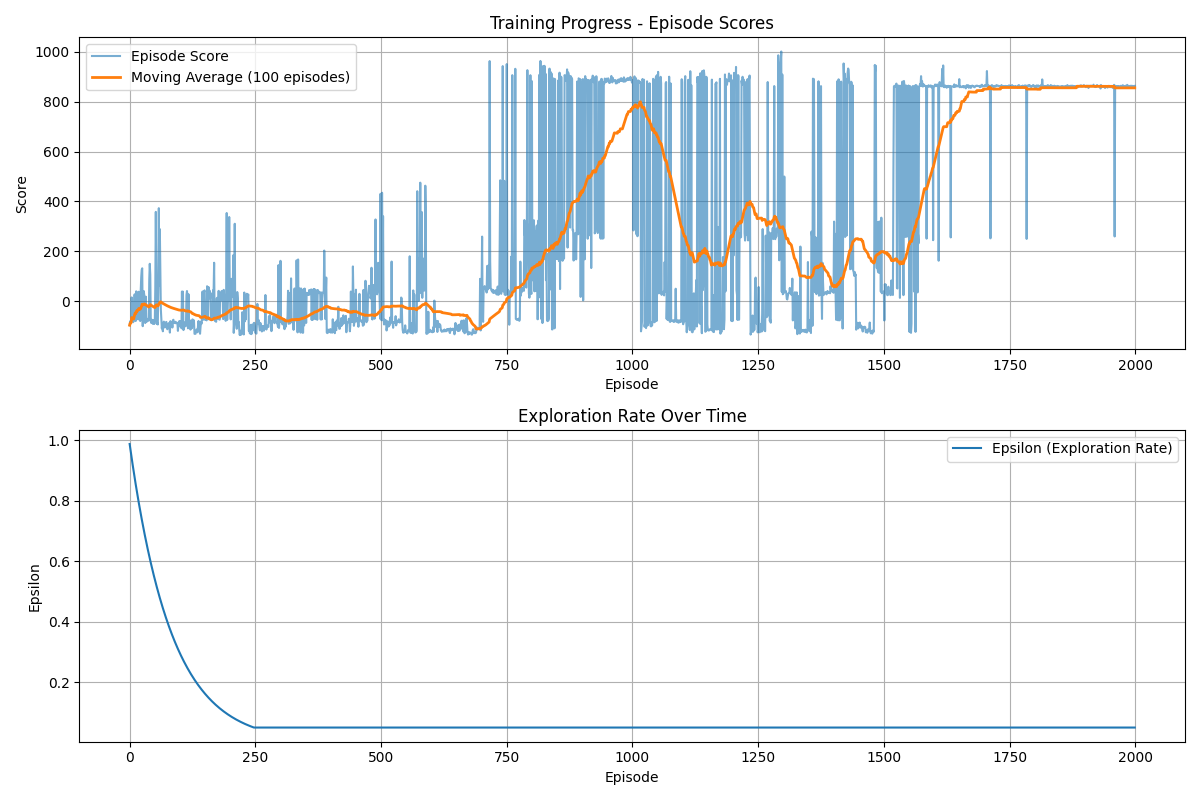
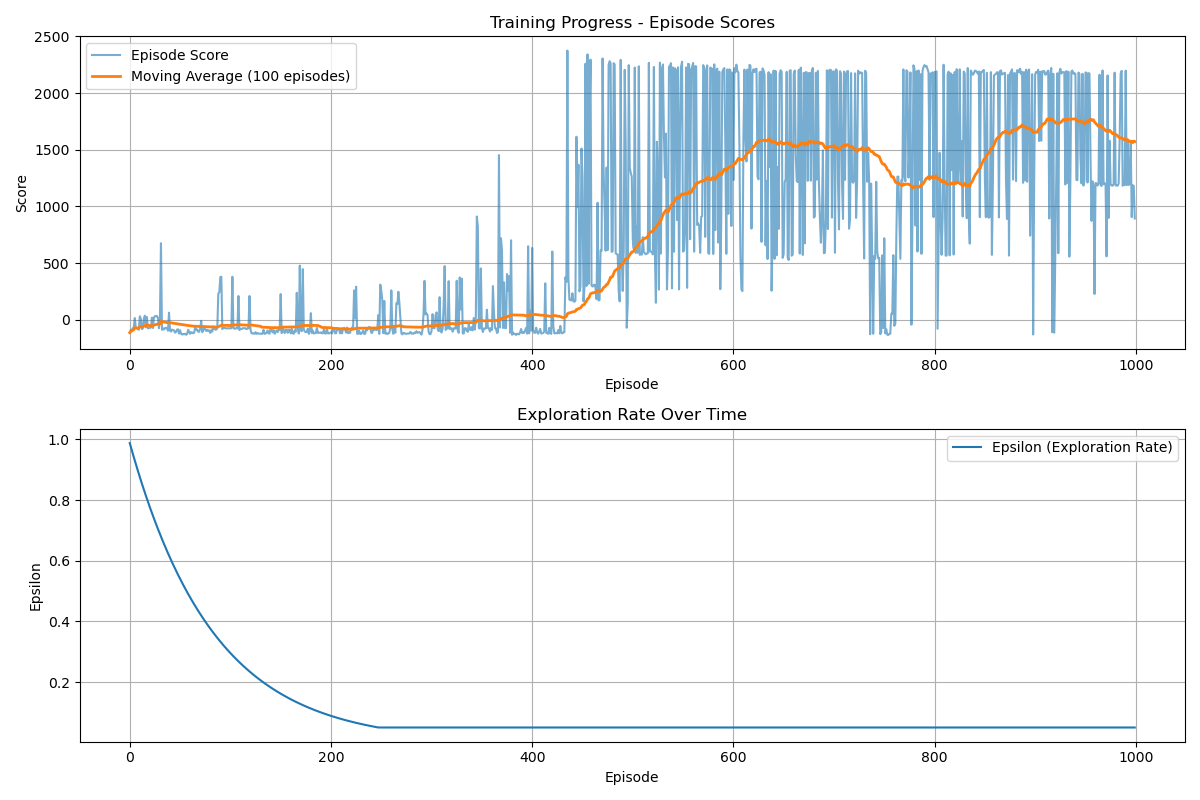
multiple rounds

diff --git a/gym_crossroad_env.py b/gym_crossroad_env.py
@@ -16,11 +16,12 @@ class CrossroadGymEnv(gym.Env):
     """
     metadata = {"render_modes": ["human"], "render_fps": 60}
 
-    def __init__(self, gui=False, max_steps=None, reward_shaping=True):
+    def __init__(self, gui=False, max_steps=None, reward_shaping=True, target_rounds=1):
         super().__init__()
         self.gui = gui
         self._max_steps = max_steps or RL_CONFIG.get('max_episode_steps', 2000)
         self.reward_shaping = reward_shaping
+        self.target_rounds = target_rounds
         
         self._p_connection_mode = p.GUI if gui else p.DIRECT
         self.navigation_mode = PEDESTRIAN_CONFIG.get('navigation_mode', 'roundabout')
@@ -52,6 +53,7 @@ class CrossroadGymEnv(gym.Env):
         self.current_waypoint_index = 0
         self.waypoints_reached = 0
         self.total_waypoints_reached = 0
+        self.rounds_completed = 0
         
         # Progress tracking
         self.last_progress_distance = None
@@ -65,7 +67,9 @@ class CrossroadGymEnv(gym.Env):
             'total_reward': 0,
             'waypoints_reached': 0,
             'full_loops_completed': 0,
-            'sequential_completions': 0
+            'sequential_completions': 0,
+            'target_rounds': self.target_rounds,
+            'rounds_completed': 0
         }
 
     def _init_pybullet(self):
@@ -100,10 +104,11 @@ class CrossroadGymEnv(gym.Env):
             self._configure_navigation_plan()
         self.current_waypoint_index = 0
         self.waypoints_reached = 0
+        self.rounds_completed = 0
         if self.waypoints:
             self.current_target_pos = self.waypoints[0]
         else:
-            self.current_target_pos = self.start_pos
+            self.current_target_pos = PEDESTRIAN_CONFIG.get('start_position', [-2.5, 3.5, 0.6])
         self.last_progress_distance = math.hypot(
             self.start_pos[0] - self.current_target_pos[0],
             self.start_pos[1] - self.current_target_pos[1]
@@ -261,12 +266,40 @@ class CrossroadGymEnv(gym.Env):
             self.current_waypoint_index += 1
             self.waypoints_reached += 1
 
-            # If all waypoints completed → SUCCESS
+            # If all waypoints completed → Check if more rounds needed
             if self.current_waypoint_index >= len(self.waypoints):
-                reward += 400  # Large bonus for completing full circuit (was 500)
-                info["success"] = True
-                info["waypoints_completed"] = len(self.waypoints)  # Ensure correct count
-                done = True
+                self.rounds_completed += 1
+                self.episode_stats['rounds_completed'] = self.rounds_completed
+                
+                # Calculate total waypoints completed across all rounds
+                total_waypoints_completed = self.rounds_completed * len(self.waypoints)
+                
+                # Check if target rounds completed
+                if self.rounds_completed >= self.target_rounds:
+                    reward += 400  # Large bonus for completing all target rounds
+                    info["success"] = True
+                    info["waypoints_completed"] = total_waypoints_completed
+                    info["rounds_completed"] = self.rounds_completed
+                    info["target_rounds_reached"] = True
+                    print(f"🎉 Agent completed {self.rounds_completed}/{self.target_rounds} rounds successfully!")
+                    done = True
+                else:
+                    # More rounds needed - reset waypoints but continue episode
+                    reward += 200  # Moderate bonus for completing one round
+                    info["round_completed"] = self.rounds_completed
+                    info["waypoints_completed"] = total_waypoints_completed
+                    info["rounds_completed"] = self.rounds_completed
+                    print(f"🔄 Round {self.rounds_completed} completed! Starting round {self.rounds_completed + 1}/{self.target_rounds}")
+                    
+                    # Reset waypoint tracking for next round
+                    self.current_waypoint_index = 0
+                    self.current_target_pos = self.waypoints[0]
+                    
+                    # Reset progress measurement for new round
+                    self.last_distance_to_target = math.hypot(
+                        agent_x - self.current_target_pos[0],
+                        agent_y - self.current_target_pos[1]
+                    )
             else:
                 # Move to next waypoint
                 self.current_target_pos = self.waypoints[self.current_waypoint_index]
@@ -390,9 +423,11 @@ class CrossroadGymEnv(gym.Env):
 
         # Calculate reward and check termination
         info = {
-            'waypoints_completed': self.waypoints_reached,
+            'waypoints_completed': self.rounds_completed * len(self.waypoints) + self.current_waypoint_index,
             'current_waypoint': self.current_waypoint_index,
-            'total_waypoints': len(self.waypoints)
+            'total_waypoints': len(self.waypoints),
+            'rounds_completed': self.rounds_completed,
+            'target_rounds': self.target_rounds
         }
         
         reward, done, info = self._calculate_reward(action, info)
@@ -451,7 +486,9 @@ class CrossroadGymEnv(gym.Env):
         info = {
             'current_waypoint': self.current_waypoint_index, 
             'waypoints_reached': self.waypoints_reached,
-            'target_position': self.current_target_pos
+            'target_position': self.current_target_pos,
+            'rounds_completed': self.rounds_completed,
+            'target_rounds': self.target_rounds
         }
         
         return obs, info
@@ -474,7 +511,10 @@ class CrossroadGymEnv(gym.Env):
         stats.update({
             'current_waypoint': self.current_waypoint_index,
             'waypoints_reached_current_episode': self.waypoints_reached,
-            'completion_percentage': (self.waypoints_reached / len(self.waypoints)) * 100
+            'completion_percentage': (self.waypoints_reached / len(self.waypoints)) * 100,
+            'rounds_completed': self.rounds_completed,
+            'target_rounds': self.target_rounds,
+            'rounds_completion_percentage': (self.rounds_completed / self.target_rounds) * 100
         })
         return stats
 

diff --git a/evaluate_agent.py b/evaluate_agent.py
@@ -10,7 +10,7 @@ from dqn_agent import DQNAgent
 from config import RL_CONFIG
 
 
-def evaluate_agent(model_path, num_episodes=10, gui=True, max_steps=400):
+def evaluate_agent(model_path, num_episodes=10, gui=True, max_steps=400, target_rounds=1):
     """
     Evaluate a trained DQN agent.
     
@@ -19,15 +19,17 @@ def evaluate_agent(model_path, num_episodes=10, gui=True, max_steps=400):
         num_episodes: Number of episodes to evaluate
         gui: Whether to show GUI
         max_steps: Maximum steps per episode
+        target_rounds: Number of complete rounds the agent should do per episode
     """
     # Initialize environment
     print("Initializing environment...")
     if gui:
         print("  GUI mode enabled - PyBullet window should open...")
-    env = CrossroadGymEnv(gui=gui, max_steps=max_steps)
+    env = CrossroadGymEnv(gui=gui, max_steps=max_steps, target_rounds=target_rounds)
     state_size = env.observation_space.shape[0]
     action_size = env.action_space.n
     print(f"  Environment initialized: State size={state_size}, Action size={action_size}")
+    print(f"  Target rounds per episode: {target_rounds}")
     
     # Initialize agent and load model
     print(f"Loading model from {model_path}...")
@@ -54,6 +56,8 @@ def evaluate_agent(model_path, num_episodes=10, gui=True, max_steps=400):
         
         print(f"\nEpisode {episode}/{num_episodes}")
         waypoints_logged = set()  # Track which waypoints we've logged
+        rounds_logged = set()     # Track which rounds we've logged
+        total_waypoints = len(env.waypoints) * target_rounds
         
         while not done and steps < max_steps:
             # Select action (no exploration)
@@ -74,35 +78,48 @@ def evaluate_agent(model_path, num_episodes=10, gui=True, max_steps=400):
             
             # Check for waypoint completion and log it
             waypoints = info.get('waypoints_completed', 0)
-            if waypoints not in waypoints_logged and waypoints > 0:
-                waypoints_logged.add(waypoints)
-                print(f"  ✓ Reached waypoint {waypoints}/4 at step {steps}")
+            rounds_completed = info.get('rounds_completed', 0)
+            current_waypoint = info.get('current_waypoint', 0)
+            
+            # Log round completions
+            if rounds_completed not in rounds_logged and rounds_completed > 0:
+                rounds_logged.add(rounds_completed)
+                print(f"  🔄 Completed round {rounds_completed}/{target_rounds} at step {steps}")
+            
+            # Log waypoint progress - use unique waypoint identifier
+            waypoint_key = f"r{rounds_completed}w{current_waypoint}"
+            if current_waypoint > 0 and waypoint_key not in waypoints_logged:
+                waypoints_logged.add(waypoint_key)
+                round_num = rounds_completed + 1
+                print(f"  ✓ Round {round_num}: Reached waypoint {current_waypoint}/{len(env.waypoints)} at step {steps}")
             
             # Check for success or collision
             if info.get('success', False):
                 successes += 1
-                waypoints = info.get('waypoints_completed', 0)
-                print(f"  🎉 SUCCESS! Completed all 4 waypoints in {steps} steps")
+                print(f"  🎉 SUCCESS! Completed all {target_rounds} rounds ({waypoints} waypoints) in {steps} steps")
             elif info.get('collision', False):
                 collisions += 1
-                waypoints = info.get('waypoints_completed', 0)
+                rounds_completed = info.get('rounds_completed', 0)
                 print(f"  ✗ Collision at step {steps}")
-                print(f"    Final waypoints reached: {waypoints}/4")
+                print(f"    Progress: {rounds_completed}/{target_rounds} rounds completed")
             elif done and steps >= max_steps:
-                waypoints = info.get('waypoints_completed', 0)
+                rounds_completed = info.get('rounds_completed', 0)
                 print(f"  ⏱ Timeout after {steps} steps")
-                print(f"    Final waypoints reached: {waypoints}/4")
+                print(f"    Progress: {rounds_completed}/{target_rounds} rounds completed")
             
             # Print current waypoint target every 100 steps
             if steps % 100 == 0 or done:
                 if 'current_waypoint' in info:
                     wp_idx = info['current_waypoint']
+                    rounds_completed = info.get('rounds_completed', 0)
+                    current_round = rounds_completed + 1
                     waypoint_names = ['North→East (1)', 'East→South (2)', 'South→West (3)', 'West→North (4)']
                     if wp_idx < len(waypoint_names):
                         target_name = waypoint_names[wp_idx]
                     else:
                         target_name = f"Waypoint {wp_idx+1}"
-                    print(f"    Step {steps}: Target={target_name}, Completed={waypoints}/4")
+                    total_completed_waypoints = info.get('waypoints_completed', 0)
+                    print(f"    Step {steps}: Round {current_round}/{target_rounds}, Target={target_name}, Total waypoints completed={total_completed_waypoints}/{total_waypoints}")
         
         episode_scores.append(score)
         episode_steps.append(steps)
@@ -143,6 +160,7 @@ def main():
     parser.add_argument('--episodes', type=int, default=10, help='Number of evaluation episodes')
     parser.add_argument('--no-gui', action='store_true', help='Disable GUI (faster evaluation)')
     parser.add_argument('--max-steps', type=int, default=1000, help='Maximum steps per episode')
+    parser.add_argument('--target-rounds', type=int, default=1, help='Number of complete rounds per episode')
     
     args = parser.parse_args()
     
@@ -150,7 +168,8 @@ def main():
         model_path=args.model,
         num_episodes=args.episodes,
         gui=not args.no_gui,
-        max_steps=args.max_steps
+        max_steps=args.max_steps,
+        target_rounds=args.target_rounds
     )
 
 

diff --git a/test_multiple_rounds.py b/test_multiple_rounds.py
@@ -1,0 +1,67 @@
+#!/usr/bin/env python3
+"""
+Test script to verify the multiple rounds functionality
+"""
+import sys
+import os
+import time
+
+# Add current directory to path
+sys.path.append(os.path.dirname(os.path.abspath(__file__)))
+
+from gym_crossroad_env import CrossroadGymEnv
+import numpy as np
+
+def test_multiple_rounds():
+    """Test the environment with multiple rounds"""
+    print("Testing Multiple Rounds Functionality")
+    print("=" * 50)
+    
+    # Test different round configurations
+    test_configs = [
+        {"target_rounds": 1, "description": "Single Round (Original)"},
+        {"target_rounds": 2, "description": "Two Rounds"},
+        {"target_rounds": 3, "description": "Three Rounds"},
+    ]
+    
+    for config in test_configs:
+        target_rounds = config["target_rounds"]
+        description = config["description"]
+        
+        print(f"\n--- Testing: {description} ---")
+        
+        # Create environment with no GUI for faster testing
+        env = CrossroadGymEnv(gui=False, max_steps=1000, target_rounds=target_rounds)
+        
+        print(f"Environment created with target_rounds={target_rounds}")
+        print(f"Waypoints: {len(env.waypoints)}")
+        print(f"Total target waypoints: {len(env.waypoints) * target_rounds}")
+        
+        # Test reset
+        obs, info = env.reset()
+        print(f"Reset info: rounds_completed={info.get('rounds_completed', 0)}, target_rounds={info.get('target_rounds', 0)}")
+        
+        # Simulate some steps (just random actions for testing)
+        for step in range(10):
+            action = np.random.randint(0, 5)  # Random action
+            obs, reward, done, truncated, info = env.step(action)
+            
+            if done:
+                success = info.get('success', False)
+                rounds_completed = info.get('rounds_completed', 0)
+                waypoints_completed = info.get('waypoints_completed', 0)
+                
+                print(f"Episode ended at step {step + 1}")
+                print(f"  Success: {success}")
+                print(f"  Rounds completed: {rounds_completed}/{target_rounds}")
+                print(f"  Waypoints completed: {waypoints_completed}")
+                break
+        
+        env.close()
+        print(f"Test completed for {description}")
+    
+    print("\n" + "=" * 50)
+    print("All tests completed!")
+
+if __name__ == "__main__":
+    test_multiple_rounds()

diff --git a/launcher.py b/launcher.py
@@ -45,17 +45,24 @@ def train_model():
         except ValueError:
             episodes = 500
             
+        try:
+            rounds = int(input("Enter number of rounds per episode for training (default 1): ") or "1")
+        except ValueError:
+            rounds = 1
+            
         use_gui = input("Show GUI during training? (y/N): ").lower().startswith('y')
         
         print(f"\nStarting training for {episodes} episodes...")
         print(f"GUI: {'Enabled' if use_gui else 'Disabled (faster)'}")
+        print(f"Target rounds per episode: {rounds}")
         
         train_agent(
             num_episodes=episodes,
             max_steps=2000,
             gui=use_gui,
             save_dir='models',
-            save_frequency=50
+            save_frequency=100,
+            target_rounds=rounds
         )
         
         print("Training completed! Model saved in ./models/")
@@ -90,12 +97,17 @@ def run_trained_model():
         from evaluate_agent import evaluate_agent
         
         episodes = int(input("Enter number of episodes to run (default 5): ") or "5")
+        rounds = int(input("Enter number of rounds per episode (default 1): ") or "1")
+        
+        if rounds > 1:
+            print(f"\nAgent will complete {rounds} full rounds of the roundabout per episode!")
         
         results = evaluate_agent(
             model_path=model_path,
             num_episodes=episodes,
             gui=True,
-            max_steps=2000
+            max_steps=2000,
+            target_rounds=rounds
         )
         
         print("\nEvaluation completed!")

diff --git a/train_agent.py b/train_agent.py
@@ -22,7 +22,8 @@ def train_agent(
     gui=False,
     save_dir='models',
     save_frequency=100,
-    plot=True
+    plot=True,
+    target_rounds=1
 ):
     """
     Train DQN agent on Crossroad environment.
@@ -34,17 +35,19 @@ def train_agent(
         save_dir: Directory to save models
         save_frequency: Save model every N episodes
         plot: Whether to plot training progress
+        target_rounds: Number of complete rounds per episode during training
     """
     # Create directories
     os.makedirs(save_dir, exist_ok=True)
     
     # Initialize environment
     print("Initializing environment...")
-    env = CrossroadGymEnv(gui=gui, max_steps=max_steps)
+    env = CrossroadGymEnv(gui=gui, max_steps=max_steps, target_rounds=target_rounds)
     state_size = env.observation_space.shape[0]
     action_size = env.action_space.n
     
     print(f"State size: {state_size}, Action size: {action_size}")
+    print(f"Target rounds per episode: {target_rounds}")
     
     # Initialize agent and replay buffer
     agent = DQNAgent(state_size, action_size)
